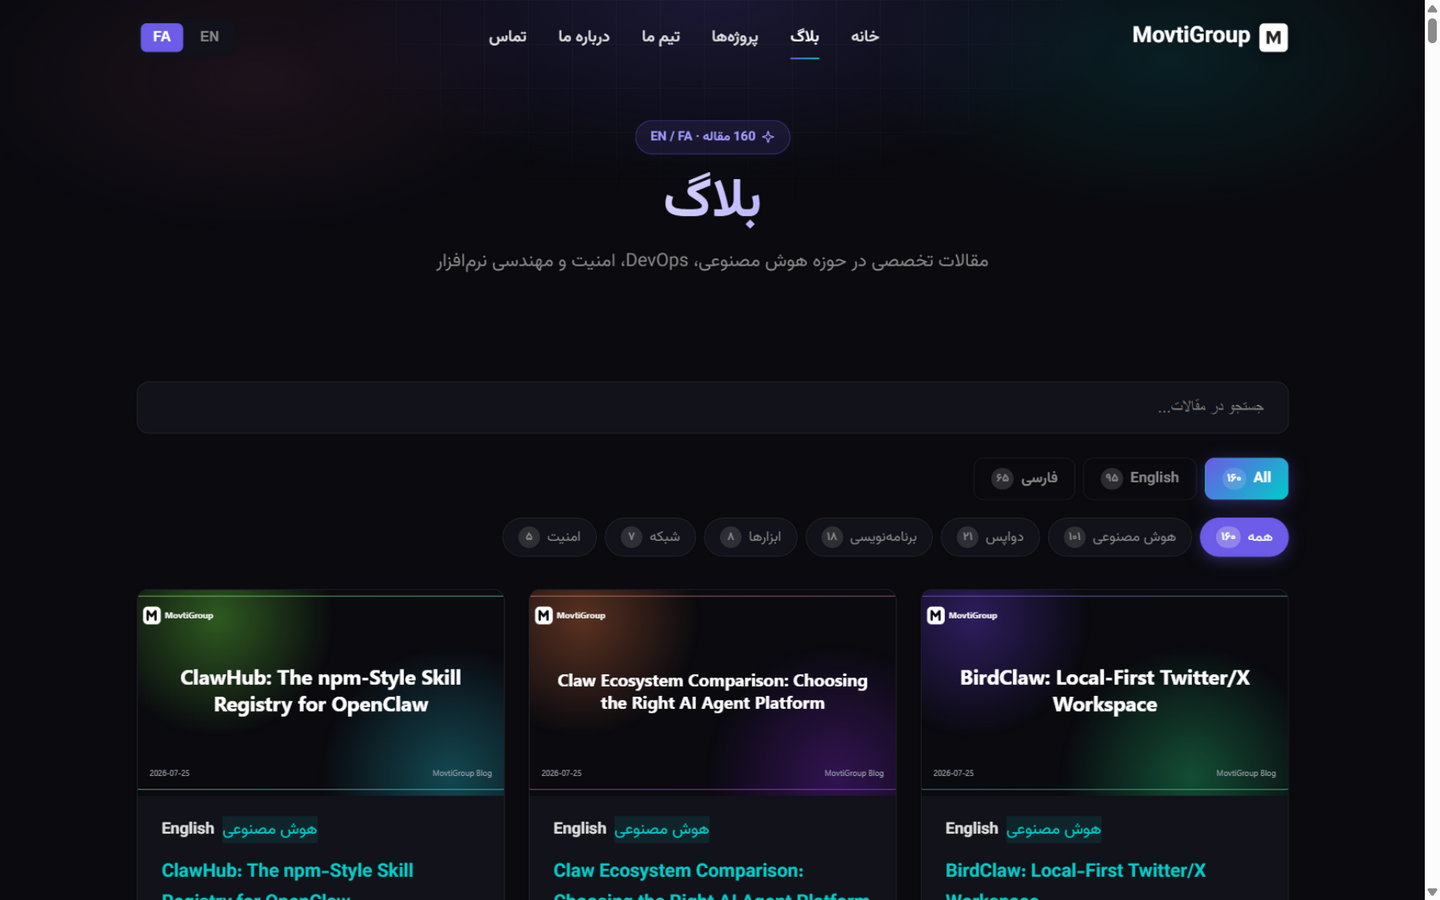
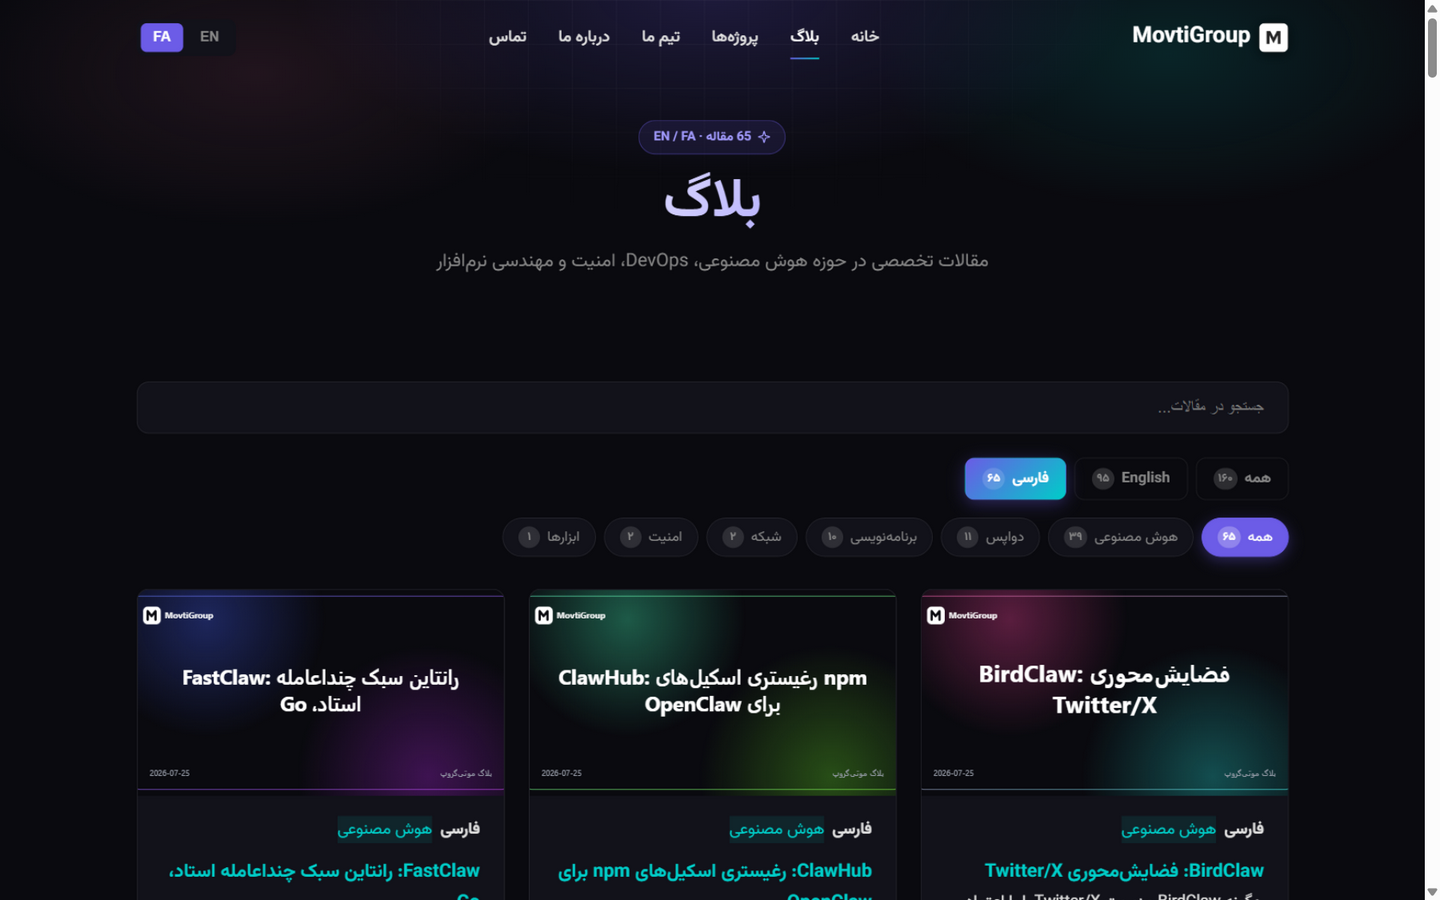
fix(blog): /blog defaults to English section, /fa/blog to Persian
Each blog page now opens on its own language (activeLang = current locale)
while the All/English/فارسی section tabs remain available on both locales
with locale-aware labels (All|همه) and Persian digit counts. Verified in
browser: /blog -> English tab active, 95 EN cards; /fa/blog -> فارسی tab
active, 65 FA cards.

diff --git a/pages/blog/index.vue b/pages/blog/index.vue
@@ -112,7 +112,8 @@ const { locale, t } = useI18n()
 const searchQuery = ref('')
 const activeCategory = ref('all')
 const activeTag = ref('')
-const activeLang = ref('all')
+// /blog defaults to the English section, /fa/blog to the Persian one
+const activeLang = ref(locale.value === 'fa' ? 'fa' : 'en')
 
 const postLink = usePostLink()
 
@@ -136,7 +137,7 @@ const availableLangs = computed(() => {
   const en = all.filter(p => p.lang !== 'fa').length
   const fa = all.length - en
   return [
-    { key: 'all', label: 'All', count: all.length },
+    { key: 'all', label: locale.value === 'fa' ? 'همه' : 'All', count: all.length },
     { key: 'en', label: 'English', count: en },
     { key: 'fa', label: 'فارسی', count: fa }
   ]
@@ -207,6 +208,7 @@ watch(locale, () => {
   activeCategory.value = 'all'
   activeTag.value = ''
   searchQuery.value = ''
+  activeLang.value = locale.value === 'fa' ? 'fa' : 'en'
 })
 useSeoMeta({
   title: () => `${t('nav.blog')} — MovtiGroup`,
